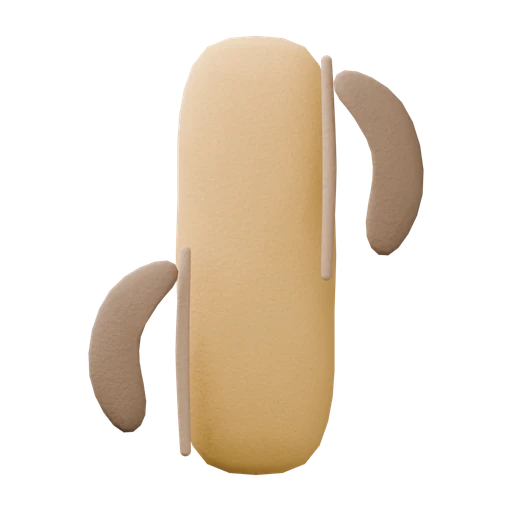
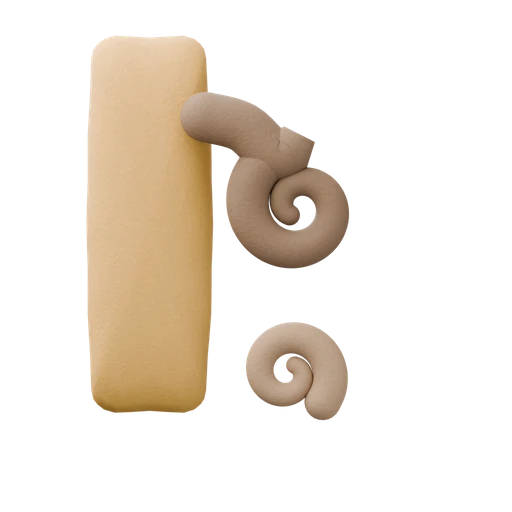
L'écorce et les lenticelles, repris sous un autre angle
Les deux dessins racontaient la même chose — une tige vue de près — et ne
disaient ni l'un ni l'autre ce qu'ils devaient dire.

L'écorce qui se desquame (N29) : la lanière part du tronc, se soulève et
finit enroulée, avec celle de l'an dernier déjà roulée au pied. C'est
l'enroulement qui dit qu'elle se détache, là où une écaille posée à plat
pouvait passer pour une tache. Le tronc garde ses bouts francs : ses coins
sont doublés, sinon la subdivision en fait une gélule.

Les lenticelles (N30) : une branche de l'année, en biais, en écorce sombre,
et les pores en tirets clairs posés en travers. Les racines adventives
(N26) sont des bosses sur une tige verte ; les deux dessins ne doivent pas
se ressembler, puisque c'est précisément l'un ou l'autre qu'il faut
reconnaître.

Claude-Session: https://claude.ai/code/session_01T8bpk7LrS46LTxdxMqYdNA

diff --git a/tool/build_natural_icons.py b/tool/build_natural_icons.py
@@ -500,36 +500,52 @@ def n28():
 
 def n29():
     """Ecorce qui se desquame : l'arbre change de peau, celle du dessous est neuve."""
-    # Le tronc droit, dans l'ecorce neuve et claire : c'est elle qui apparait
-    # sous celle qui s'en va, et l'ecart entre les deux fait tout le dessin.
-    contour = [(-.38, -1.16), (.38, -1.16), (.40, -.58), (.41, .00), (.40, .58),
-               (.38, 1.16), (-.38, 1.16), (-.40, .58), (-.41, .00), (-.40, -.58)]
-    # Le bois neuf est chaud et clair, l'ecorce qui s'en va sombre : sans cet
-    # ecart, les deux couches se confondent en une seule masse.
-    plaque('Tronc', contour, M['ochre'], epaisseur=.60, lisse=1)
-    # Deux lanieres qui se soulevent et s'enroulent hors du tronc : c'est ce
-    # debord qui dit qu'elles se detachent, et non qu'elles sont peintes.
-    for i, (z, sens, haut) in enumerate(((.42, 1, .56), (-.46, -1, .52))):
-        b = sens * .36
-        laniere = [(b * .96, z + haut), (b + sens * .40, z + haut * .72),
-                   (b + sens * .52, z - haut * .30), (b + sens * .26, z - haut),
-                   (b + sens * .10, z - haut * .56), (b + sens * .30, z + haut * .26),
-                   (b * .92, z + haut * .60)]
-        plaque(f'Laniere_{i}', laniere, M['ecorce_sombre'], depth=.46, epaisseur=.16, lisse=2)
-        trace(f'Decollement_{i}', [(b * .94, z + haut * .92), (b * .98, z), (b * .94, z - haut * .92)],
-              [.026, .034, .026], M['ecorce'], depth=.34)
+    # Le tronc de trois quarts, dans l'ecorce neuve : chaude et claire, c'est
+    # elle qui apparait sous celle qui s'en va.
+    # Les coins doubles gardent les bouts francs : une section de tronc, pas
+    # une gelule. La subdivision arrondit ce qu'on lui laisse d'espace.
+    contour = [(-.84, -1.16), (-.20, -1.16), (-.18, -1.10), (-.14, -.55), (-.13, .00), (-.14, .55),
+               (-.18, 1.10), (-.20, 1.16), (-.84, 1.16), (-.88, 1.10),
+               (-.90, .55), (-.91, .00), (-.90, -.55), (-.88, -1.10)]
+    plaque('Tronc', contour, M['ochre'], epaisseur=.58, lisse=1)
+    # La laniere part du tronc, se souleve et finit enroulee : c'est le
+    # rouleau qui dit qu'elle se detache, mieux qu'une ecaille posee a plat.
+    def enroulement(cx, cz, r0, r1, tours, depart):
+        pas = 26
+        return [(cx + (r0 + (r1 - r0) * k / pas) * math.cos(depart + tours * 2 * math.pi * k / pas),
+                 cz + (r0 + (r1 - r0) * k / pas) * math.sin(depart + tours * 2 * math.pi * k / pas))
+                for k in range(pas + 1)]
+
+    laniere = [(-.20, .62), (.02, .56), (.20, .40)] + enroulement(.34, .10, .34, .07, 1.35, math.radians(96))
+    trace('Laniere', laniere, [.145] * 3 + [.135 - .075 * k / 26 for k in range(27)],
+          M['ecorce_sombre'], depth=.34)
+    # Celle de l'an dernier, tombee au pied, deja toute roulee.
+    tombee = enroulement(.28, -.86, .26, .06, 1.25, math.radians(-40))
+    trace('Laniere_tombee', tombee, [.105 - .055 * k / 26 for k in range(27)],
+          M['ecorce'], depth=.30)
 
 
 def n30():
-    """Lenticelles : les pores de l'ecorce, alignes et reguliers."""
-    trace('Rameau', [(-.34, -1.02), (-.12, -.34), (.10, .34), (.30, 1.00)],
-         [.205, .200, .190, .170], M['ecorce_claire'])
-    for i, (t, f) in enumerate(((.10, -.5), (.22, .5), (.34, -.4), (.46, .4), (.58, -.5),
-                                (.70, .4), (.82, -.3), (.90, .5))):
-        x = -.34 + .64 * t + f * .12
-        z = -1.02 + 2.02 * t
-        ball(f'Lenticelle_{i}', (x, .26, z), (.075, .030, .026), M['ecorce_sombre'])
-    perle('Bourgeon', .32, 1.08, .085, M['sage_dark'], depth=.30, aplati=.86)
+    """Lenticelles : les pores de l'ecorce, en tirets alignes."""
+    # Une branche de l'annee, en biais et en ecorce sombre : les lenticelles
+    # sont des tirets clairs en travers, la ou les racines adventives (N26)
+    # sont des bosses sur une tige verte. Les deux dessins ne doivent pas se
+    # ressembler.
+    axe = [(-1.02, -.66), (-.34, -.26), (.34, .20), (.96, .68)]
+    trace('Branche', axe, [.235, .225, .210, .180], M['ecorce_sombre'], depth=0)
+    direction = math.atan2(.68 + .66, .96 + 1.02)
+    nx, nz = -math.sin(direction), math.cos(direction)
+    for i, (t, decalage, longueur) in enumerate(((.12, .30, .085), (.24, -.34, .080), (.36, .26, .090),
+                                                 (.47, -.28, .082), (.58, .30, .078), (.68, -.24, .072),
+                                                 (.79, .22, .066), (.88, -.20, .058))):
+        x = -1.02 + 1.98 * t + nx * decalage * .18
+        z = -.66 + 1.34 * t + nz * decalage * .18
+        trace(f'Lenticelle_{i}', [(x - nx * longueur, z - nz * longueur),
+                                  (x + nx * longueur, z + nz * longueur)],
+              [.030, .030], M['cream'], depth=.30)
+    # Un bourgeon au bout : c'est une branche vivante, pas un baton.
+    perle('Bourgeon', 1.02, .78, .105, M['sage_dark'], depth=.24, aplati=.88)
+    feuille(.74, 1.02, .38, -34)
 
 
 def n31():
